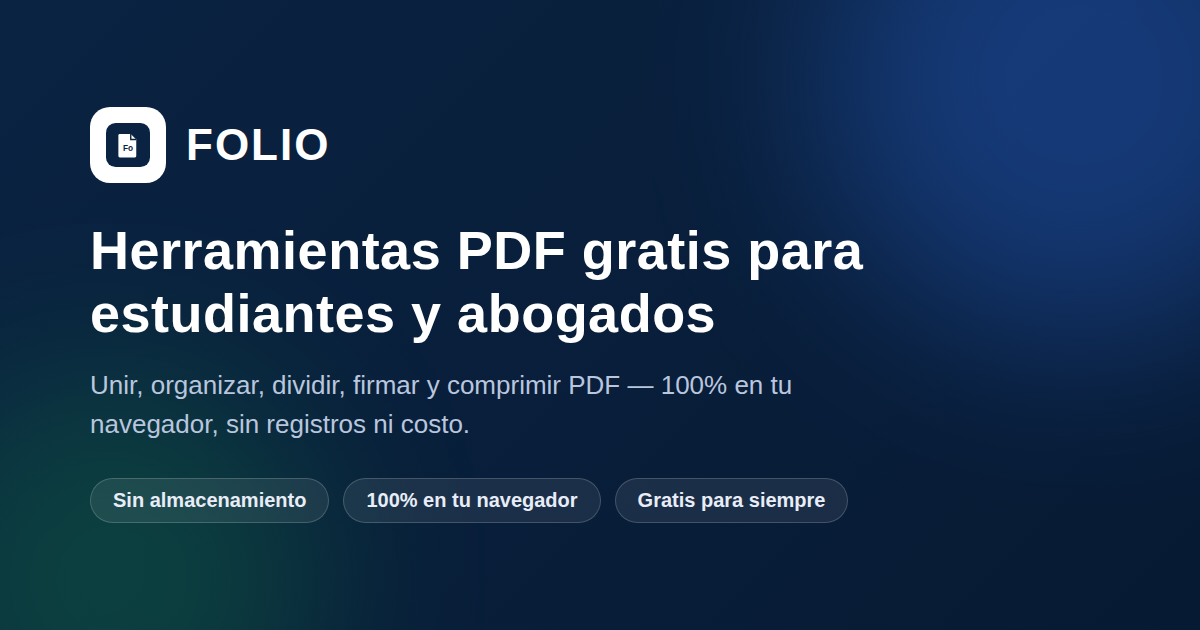
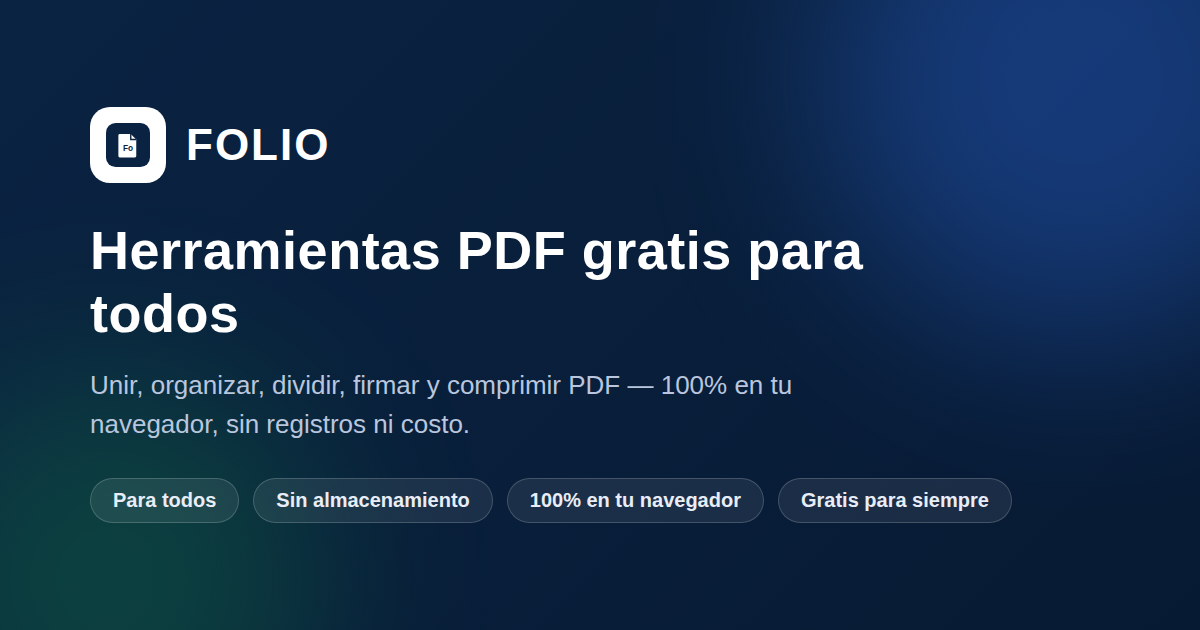
Registro solo al abrir una herramienta, sin WhatsApp/LITIA, y mensaje "para todos"
- El registro (nombre + celular) ya no bloquea toda la página al entrar:
  ahora el inicio se ve libremente, y el formulario solo aparece como
  una ventana emergente cuando alguien elige una herramienta por
  primera vez. Tiene botón de cerrar (✕) para cancelar sin registrarse.
- Se quitó por completo el paso de abrir WhatsApp al registrarse (y la
  mención a LITIA.ai en ese flujo) — el registro ahora solo guarda el
  nombre y celular en el panel de administrador, sin redirigir a
  ninguna parte.
- Cambié el mensaje de "para estudiantes y abogados" a "para todos"
  en el título, subtítulo, insignias, pie de página, metadatos de
  redes sociales y el manifiesto de la app — Folio es para cualquier
  persona. Se agregó una insignia nueva ("Para todos") con su propio
  ícono en el inicio.

Verificado con la prueba automática existente (que ahora corre en 14s
en vez de fallar por doble recarga) más las otras 12, las 13 pasando.

Claude-Session: https://claude.ai/code/session_013NrPgswZLMdwN5WQzaAzgV

Changed region(s): [[0.0617, 0.4524, 0.6167, 0.5429], [0.0925, 0.7841, 0.8325, 0.8143]]

diff --git a/folio-pdf/src/components/LeadGate.jsx b/folio-pdf/src/components/LeadGate.jsx
@@ -3,7 +3,6 @@ import Logo from "./Logo.jsx";
 import { registrarLead } from "../lib/analytics.js";
 import { IconLock, IconShield } from "./Icons.jsx";
 
-const WHATSAPP_NUMBER = "573192875428";
 const STORAGE_KEY = "folio_lead_ok";
 
 export function hasAcceptedLead() {
@@ -28,17 +27,17 @@ const INDICATIVOS = [
   { code: "+507", country: "Panamá", digits: 8 },
 ];
 
-export default function LeadGate({ onDone }) {
+export default function LeadGate({ onDone, onCancel }) {
   const [nombre, setNombre] = useState("");
   const [indicativo, setIndicativo] = useState("+57");
   const [numero, setNumero] = useState("");
-  const [confirmaWhatsapp, setConfirmaWhatsapp] = useState(false);
+  const [confirmaDatos, setConfirmaDatos] = useState(false);
   const [error, setError] = useState("");
 
   const paisInfo = INDICATIVOS.find((i) => i.code === indicativo);
   const digitos = numero.trim().replace(/\D/g, "");
   const numeroValido = digitos.length === paisInfo.digits;
-  const listo = nombre.trim().length >= 2 && numeroValido && confirmaWhatsapp;
+  const listo = nombre.trim().length >= 2 && numeroValido && confirmaDatos;
 
   function continuar() {
     if (nombre.trim().length < 2) {
@@ -49,8 +48,8 @@ export default function LeadGate({ onDone }) {
       setError(`El número de ${paisInfo.country} debe tener ${paisInfo.digits} dígitos (sin el indicativo).`);
       return;
     }
-    if (!confirmaWhatsapp) {
-      setError("Debes confirmar que ese número tiene WhatsApp activo para continuar.");
+    if (!confirmaDatos) {
+      setError("Debes confirmar tus datos para continuar.");
       return;
     }
     const telefonoCompleto = `${indicativo}${digitos}`;
@@ -60,27 +59,47 @@ export default function LeadGate({ onDone }) {
       // si el navegador bloquea localStorage, igual dejamos continuar
     }
     registrarLead(nombre.trim(), telefonoCompleto);
-    const texto = encodeURIComponent(
-      `Hola, soy ${nombre.trim()} (${telefonoCompleto}). Quiero recibir por WhatsApp actualizaciones, noticias de LITIA.ai y acceder a descuentos.`
-    );
-    window.open(`https://wa.me/${WHATSAPP_NUMBER}?text=${texto}`, "_blank", "noopener,noreferrer");
     onDone();
   }
 
   return (
     <div
       style={{
-        minHeight: "100dvh",
+        position: "fixed",
+        inset: 0,
+        zIndex: 200,
         display: "flex",
         alignItems: "center",
         justifyContent: "center",
         padding: 20,
-        background: "var(--bg)",
-        position: "relative",
+        background: "rgba(8, 12, 18, 0.6)",
       }}
     >
-      <div className="bg-blobs" aria-hidden="true" />
-      <div className="card" style={{ maxWidth: 420, width: "100%", padding: "28px 26px", position: "relative" }}>
+      <div className="card fade-in" style={{ maxWidth: 420, width: "100%", padding: "28px 26px", position: "relative" }}>
+        {onCancel && (
+          <button
+            onClick={onCancel}
+            aria-label="Cerrar"
+            title="Cerrar"
+            style={{
+              position: "absolute",
+              top: 12,
+              right: 12,
+              width: 28,
+              height: 28,
+              borderRadius: "50%",
+              border: "1px solid var(--border)",
+              background: "var(--panel-2)",
+              color: "var(--text)",
+              display: "flex",
+              alignItems: "center",
+              justifyContent: "center",
+              fontSize: 14,
+            }}
+          >
+            ✕
+          </button>
+        )}
         <div style={{ display: "flex", flexDirection: "column", alignItems: "center", gap: 8, marginBottom: 18 }}>
           <Logo size={44} />
           <h1 style={{ fontSize: 20, margin: 0, textAlign: "center" }}>Bienvenido a Folio</h1>
@@ -101,7 +120,7 @@ export default function LeadGate({ onDone }) {
         />
 
         <label style={{ fontSize: 12, fontWeight: 600, display: "block", margin: "12px 0 4px" }}>
-          Celular de WhatsApp (con indicativo) *
+          Celular (con indicativo) *
         </label>
         <div style={{ display: "flex", gap: 8 }}>
           <select
@@ -136,8 +155,7 @@ export default function LeadGate({ onDone }) {
           <span style={{ flexShrink: 0, marginTop: 1 }}>
             <IconShield size={12} />
           </span>
-          Tu número solo se usa para contactarte por WhatsApp; nunca se comparte ni se vende a
-          terceros.
+          Tus datos nunca se comparten ni se venden a terceros.
         </p>
 
         <label
@@ -152,25 +170,23 @@ export default function LeadGate({ onDone }) {
         >
           <input
             type="checkbox"
-            checked={confirmaWhatsapp}
-            onChange={(e) => setConfirmaWhatsapp(e.target.checked)}
+            checked={confirmaDatos}
+            onChange={(e) => setConfirmaDatos(e.target.checked)}
             required
             style={{ marginTop: 2 }}
           />
           <span>
-            Confirmo que este es <strong>mi</strong> número y que tiene WhatsApp activo. *
+            Confirmo que estos son <strong>mis</strong> datos. *
           </span>
         </label>
 
         {error && <p style={{ color: "var(--danger)", fontSize: 12, marginTop: 8 }}>{error}</p>}
 
         <button className="btn-primary" style={{ width: "100%", marginTop: 18 }} onClick={continuar} disabled={!listo}>
-          Acepto recibir novedades y descuentos por WhatsApp — Continuar
+          Continuar a la herramienta
         </button>
         <p style={{ fontSize: 10.5, color: "var(--muted)", textAlign: "center", marginTop: 10 }}>
-          Al continuar se abrirá WhatsApp para confirmar tu número, y aceptas recibir por ahí
-          actualizaciones y noticias de LITIA.ai, y acceder a descuentos. Tus documentos nunca se
-          almacenan.
+          Tus documentos nunca se almacenan ni se suben a ningún servidor.
         </p>
         <div className="trust-badges" style={{ justifyContent: "center", marginTop: 12 }}>
           <span className="trust-badge">

diff --git a/folio-pdf/tests/tools.spec.js b/folio-pdf/tests/tools.spec.js
@@ -6,21 +6,45 @@ const __dirname = path.dirname(fileURLToPath(import.meta.url));
 const SAMPLE_PDF = path.join(__dirname, "fixtures/sample.pdf");
 const SAMPLE_PNG = path.join(__dirname, "fixtures/sample.png");
 
-test.beforeEach(async ({ page }) => {
+// Un visitante nuevo (contexto sin localStorage) debe poder ver el inicio
+// libremente; el registro solo debe aparecer al elegir una herramienta.
+// Se prueba antes que nada, en su propia sesión limpia, para no pagar dos
+// veces la carga de la fuente de Google Fonts (lenta en este entorno).
+test("un visitante nuevo ve el inicio sin que le pidan registrarse, y el registro solo aparece al elegir una herramienta", async ({ page }) => {
   await page.goto("/");
-  await page.evaluate(() => localStorage.setItem("folio_lead_ok", "1"));
-  await page.reload();
+
+  // La cuadrícula debe verse de una, sin ningún formulario de por medio.
+  await expect(page.locator(".tool-card")).toHaveCount(10);
+  await expect(page.getByText("Bienvenido a Folio")).not.toBeVisible();
+
+  await page.locator(".tool-card", { hasText: "UNIR PDF" }).click();
+  await expect(page.getByText("Bienvenido a Folio")).toBeVisible();
+
+  await page.getByPlaceholder("Tu nombre completo").fill("Ana Prueba");
+  await page.getByPlaceholder("9999999999").fill("3001234567");
+  await page.getByRole("checkbox").check();
+  await page.getByRole("button", { name: "Continuar a la herramienta" }).click();
+
+  // Debe llegar directo a Unir PDF, sin pasar por WhatsApp.
+  await expect(page.locator("h2", { hasText: "Unir PDF" })).toBeVisible();
 });
 
 async function openTool(page, label) {
   await page.locator(".tool-card", { hasText: label }).click();
 }
 
-test("la cuadrícula del inicio muestra las 10 herramientas", async ({ page }) => {
-  await expect(page.locator(".tool-card")).toHaveCount(10);
-});
+test.describe("con el registro ya aceptado", () => {
+  test.beforeEach(async ({ page }) => {
+    await page.goto("/");
+    await page.evaluate(() => localStorage.setItem("folio_lead_ok", "1"));
+    await page.reload();
+  });
 
-test("Unir PDF: sube dos archivos y descarga el resultado", async ({ page }) => {
+  test("la cuadrícula del inicio muestra las 10 herramientas", async ({ page }) => {
+    await expect(page.locator(".tool-card")).toHaveCount(10);
+  });
+
+  test("Unir PDF: sube dos archivos y descarga el resultado", async ({ page }) => {
   await openTool(page, "UNIR PDF");
   await page.setInputFiles('input[type="file"]', [SAMPLE_PDF, SAMPLE_PDF]);
   await page.locator("main").getByRole("button", { name: "Unir PDF" }).click();
@@ -115,10 +139,11 @@ test("encadenar herramientas: Unir PDF -> Comprimir este PDF sin volver a subir"
   await expect(page.getByRole("button", { name: "Comprimir", exact: true })).toBeEnabled({ timeout: 10000 });
 });
 
-test("el scroll sube al inicio al cambiar de herramienta desde el pie de página", async ({ page }) => {
-  await page.evaluate(() => window.scrollTo(0, document.body.scrollHeight));
-  await page.locator(".footer-link", { hasText: "Unir PDF" }).click();
-  await page.waitForTimeout(600);
-  const scrollY = await page.evaluate(() => window.scrollY);
-  expect(scrollY).toBeLessThan(50);
+  test("el scroll sube al inicio al cambiar de herramienta desde el pie de página", async ({ page }) => {
+    await page.evaluate(() => window.scrollTo(0, document.body.scrollHeight));
+    await page.locator(".footer-link", { hasText: "Unir PDF" }).click();
+    await page.waitForTimeout(600);
+    const scrollY = await page.evaluate(() => window.scrollY);
+    expect(scrollY).toBeLessThan(50);
+  });
 });

diff --git a/folio-pdf/src/App.jsx b/folio-pdf/src/App.jsx
@@ -19,6 +19,7 @@ import {
   IconLock,
   IconGlobe,
   IconCheck,
+  IconUsers,
   IconArrowRight,
   Spinner,
 } from "./components/Icons.jsx";
@@ -53,7 +54,18 @@ export default function App() {
   const [theme, setTheme] = useState(() => localStorage.getItem("folio_theme") || "light");
   const [accepted, setAccepted] = useState(hasAcceptedLead());
   const [activeTool, setActiveTool] = useState(null);
+  const [pendingToolId, setPendingToolId] = useState(null);
   const [chainedFile, setChainedFile] = useState(null);
+
+  // El registro (nombre + celular) solo se pide la primera vez que alguien
+  // intenta abrir una herramienta, no apenas entra a la página.
+  function abrirHerramienta(id) {
+    if (accepted) {
+      setActiveTool(id);
+    } else {
+      setPendingToolId(id);
+    }
+  }
 
   // Deja que una herramienta mande su resultado directo a otra (ej. "Comprimir
   // este PDF" después de unirlo), sin tener que descargarlo y volver a subirlo.
@@ -76,15 +88,6 @@ export default function App() {
     window.scrollTo({ top: 0, behavior: "smooth" });
   }, [activeTool]);
 
-  if (!accepted) {
-    return (
-      <>
-        <LeadGate onDone={() => setAccepted(true)} />
-        <WhatsAppFloat />
-      </>
-    );
-  }
-
   const Active = TOOLS.find((t) => t.id === activeTool);
 
   return (
@@ -102,7 +105,7 @@ export default function App() {
         {!Active && (
           <div className="fade-in">
             <div style={{ textAlign: "center", marginBottom: 22 }}>
-              <span className="eyebrow uppercase">Plataforma 100% gratuita</span>
+              <span className="eyebrow uppercase">Para todos, sin excepción</span>
               <h1
                 className="uppercase"
                 style={{
@@ -119,9 +122,12 @@ export default function App() {
                 Herramientas PDF gratis
               </h1>
               <p style={{ color: "var(--muted)", fontSize: 14, margin: "0 0 14px" }}>
-                Para estudiantes y abogados. Rápidas, sencillas y sin costo.
+                Para cualquier persona: estudiantes, abogados y todos los demás. Rápidas, sencillas y sin costo.
               </p>
               <div className="trust-badges" style={{ justifyContent: "center" }}>
+                <span className="trust-badge">
+                  <IconUsers /> Para todos
+                </span>
                 <span className="trust-badge">
                   <IconLock /> Sin almacenamiento
                 </span>
@@ -138,7 +144,7 @@ export default function App() {
                 <button
                   key={t.id}
                   className="card tool-card"
-                  onClick={() => setActiveTool(t.id)}
+                  onClick={() => abrirHerramienta(t.id)}
                   style={{
                     padding: "24px 14px",
                     display: "flex",
@@ -202,9 +208,20 @@ export default function App() {
         )}
       </main>
 
-      <Footer onSelectTool={setActiveTool} onExplore={() => setActiveTool(null)} />
+      <Footer onSelectTool={abrirHerramienta} onExplore={() => setActiveTool(null)} />
       <WhatsAppFloat />
       <Toast />
+
+      {pendingToolId && (
+        <LeadGate
+          onDone={() => {
+            setAccepted(true);
+            setActiveTool(pendingToolId);
+            setPendingToolId(null);
+          }}
+          onCancel={() => setPendingToolId(null)}
+        />
+      )}
     </div>
   );
 }

diff --git a/folio-pdf/index.html b/folio-pdf/index.html
@@ -6,7 +6,7 @@
     <meta name="theme-color" content="#0A2342" />
     <meta
       name="description"
-      content="Folio — herramienta gratuita para unir, organizar, dividir y firmar PDF, y convertir imágenes a PDF. Gratis para estudiantes y abogados. Diseñado por LITIA.ai."
+      content="Folio — herramienta gratuita para unir, organizar, dividir y firmar PDF, y convertir imágenes a PDF. Gratis para todos. Diseñado por LITIA.ai."
     />
     <link rel="icon" type="image/svg+xml" href="/favicon.svg" />
     <link rel="apple-touch-icon" href="/icon-192.png" />
@@ -19,7 +19,7 @@
     <meta property="og:title" content="Folio · Herramientas PDF gratis" />
     <meta
       property="og:description"
-      content="Unir, organizar, dividir, firmar y comprimir PDF — 100% en tu navegador, sin registros ni costo. Gratis para estudiantes y abogados."
+      content="Unir, organizar, dividir, firmar y comprimir PDF — 100% en tu navegador, sin registros ni costo. Gratis para todos."
     />
     <meta property="og:url" content="https://folio-pdf-omega.vercel.app/" />
     <meta property="og:image" content="https://folio-pdf-omega.vercel.app/og-image.png" />
@@ -31,7 +31,7 @@
     <meta name="twitter:title" content="Folio · Herramientas PDF gratis" />
     <meta
       name="twitter:description"
-      content="Unir, organizar, dividir, firmar y comprimir PDF — 100% en tu navegador, sin registros ni costo."
+      content="Unir, organizar, dividir, firmar y comprimir PDF — 100% en tu navegador, sin registros ni costo. Gratis para todos."
     />
     <meta name="twitter:image" content="https://folio-pdf-omega.vercel.app/og-image.png" />
     <link rel="preconnect" href="https://fonts.googleapis.com" />

diff --git a/folio-pdf/src/components/Icons.jsx b/folio-pdf/src/components/Icons.jsx
@@ -50,6 +50,18 @@ export function IconCheck({ size = 16 }) {
   return base(<path d="M4 12l5 5L20 6" />, size, 2.2);
 }
 
+export function IconUsers({ size = 16 }) {
+  return base(
+    <>
+      <circle cx="9" cy="8" r="3" />
+      <path d="M3.5 19c0-3 2.5-5 5.5-5s5.5 2 5.5 5" />
+      <path d="M16 4.5a3 3 0 0 1 0 5.8" />
+      <path d="M18.5 14c2 .4 3.5 2 3.5 5" />
+    </>,
+    size
+  );
+}
+
 export function IconPaperclip({ size = 26 }) {
   return base(
     <path d="M8 12.5l6.5-6.5a3.5 3.5 0 0 1 5 5L11 19.5a5.5 5.5 0 0 1-8-8L13.5 1" transform="translate(0.5 1)" />,

diff --git a/folio-pdf/src/components/Footer.jsx b/folio-pdf/src/components/Footer.jsx
@@ -57,7 +57,7 @@ export default function Footer({ onSelectTool, onExplore }) {
               </span>
             </div>
             <p style={{ fontSize: 13, color: "var(--footer-muted)", lineHeight: 1.6, maxWidth: 260, margin: "0 0 14px" }}>
-              Herramientas PDF gratuitas para estudiantes y abogados en Colombia.
+              Herramientas PDF gratuitas para todos, en cualquier lugar.
             </p>
             <span
               title={`Versión ${APP_VERSION}, actualizada el ${LAST_UPDATED}`}

diff --git a/folio-pdf/vite.config.js b/folio-pdf/vite.config.js
@@ -15,7 +15,7 @@ export default defineConfig({
         name: "Folio · Herramientas PDF gratis",
         short_name: "Folio",
         lang: "es",
-        description: "Unir, organizar, dividir, firmar y comprimir PDF — 100% en tu navegador, sin registros ni costo.",
+        description: "Unir, organizar, dividir, firmar y comprimir PDF — 100% en tu navegador, sin registros ni costo. Gratis para todos.",
         theme_color: "#0a2342",
         background_color: "#f5f6f8",
         display: "standalone",

diff --git a/folio-pdf/playwright.config.js b/folio-pdf/playwright.config.js
@@ -2,7 +2,7 @@ import { defineConfig } from "@playwright/test";
 
 export default defineConfig({
   testDir: "./tests",
-  timeout: 30000,
+  timeout: 45000,
   fullyParallel: true,
   reporter: [["list"]],
   use: {
